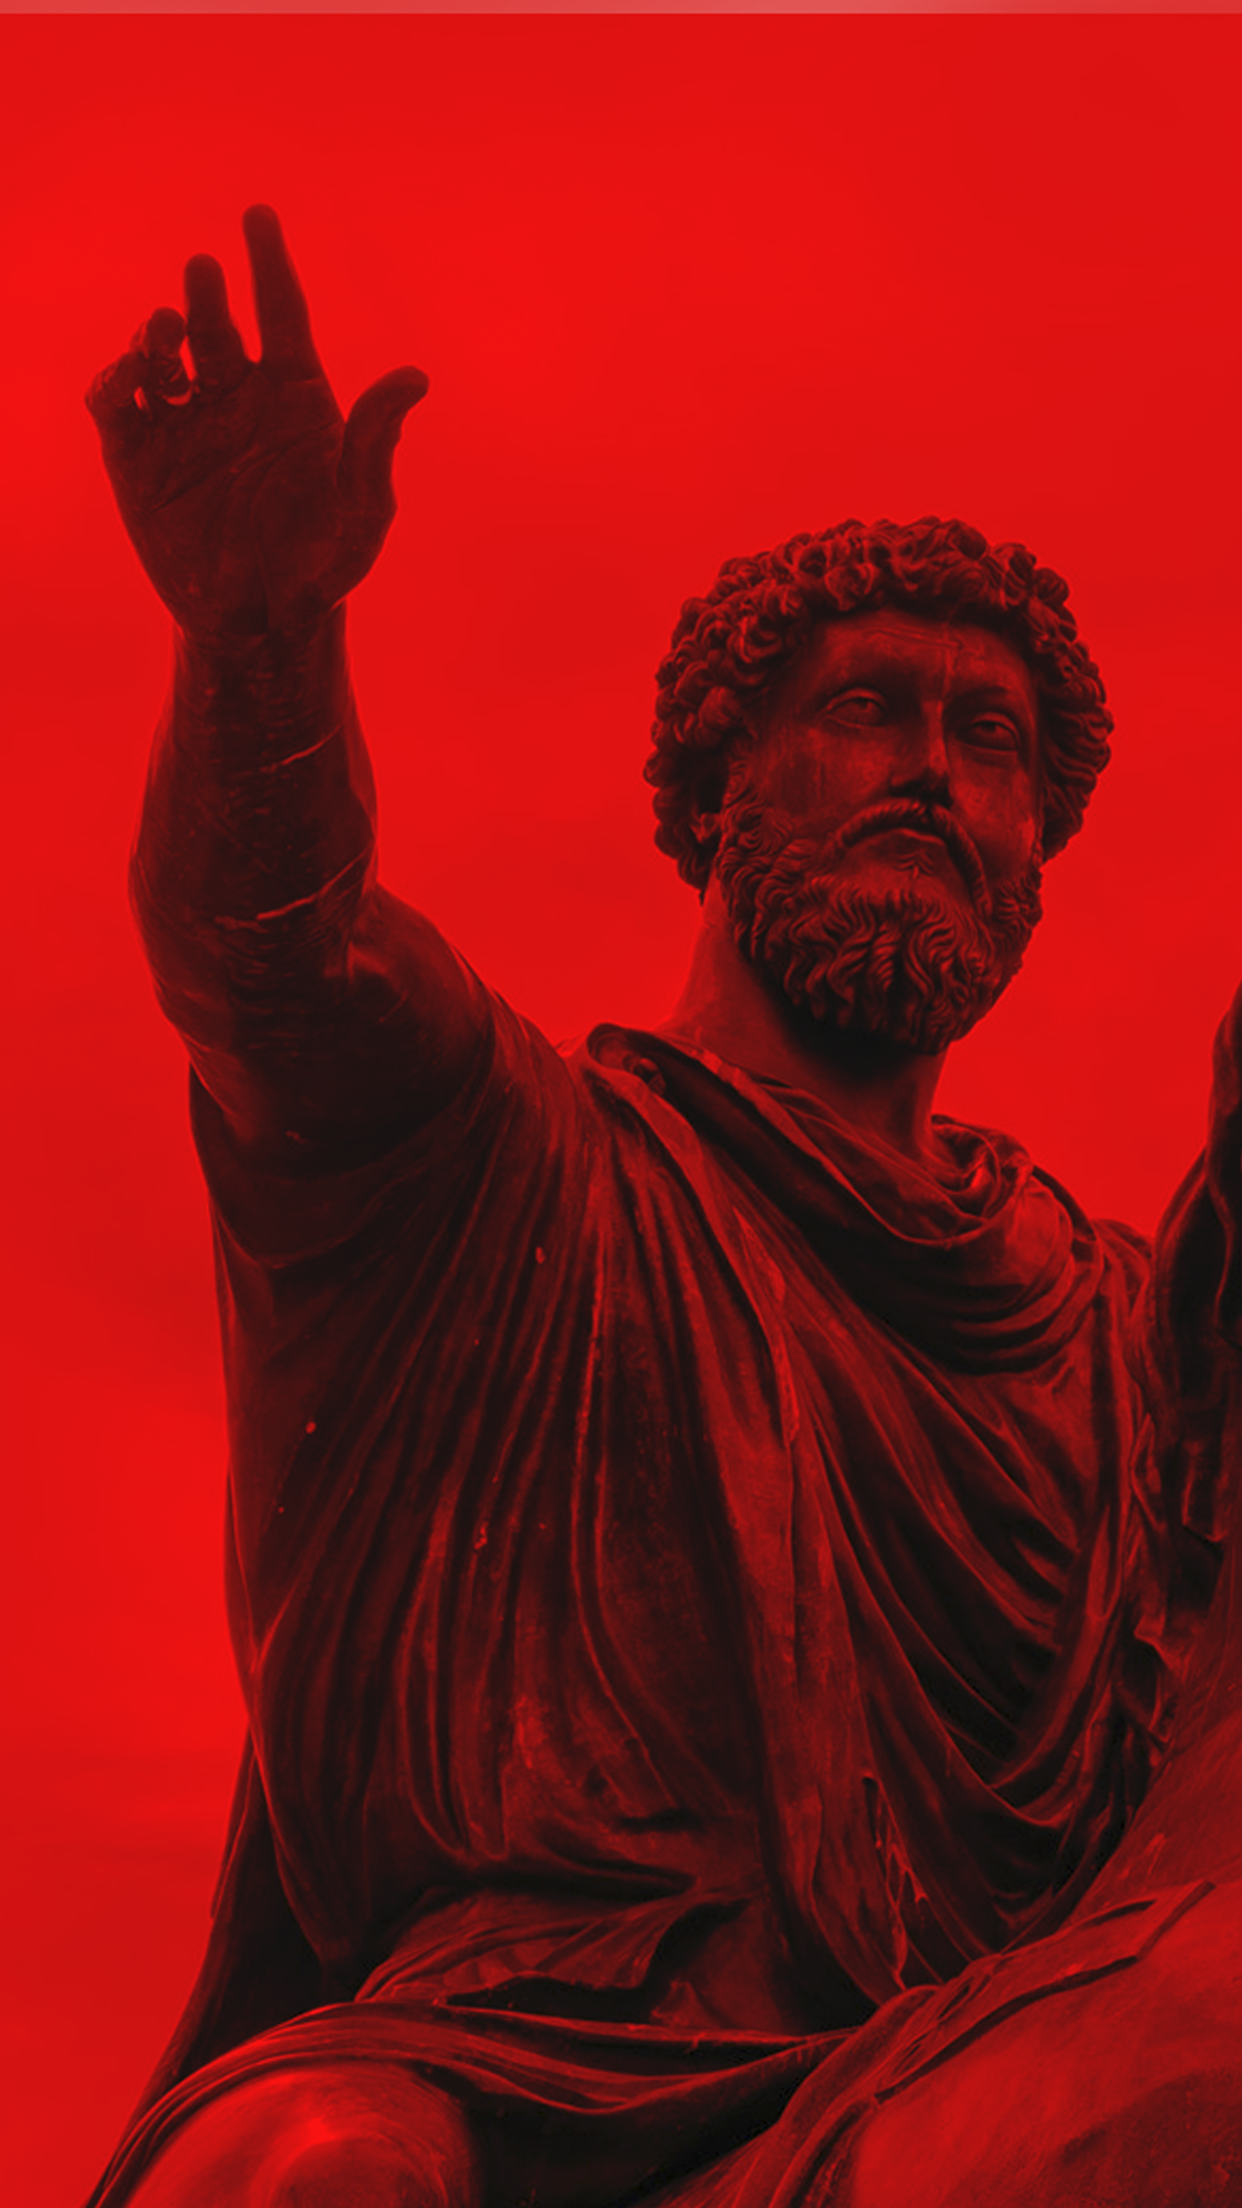
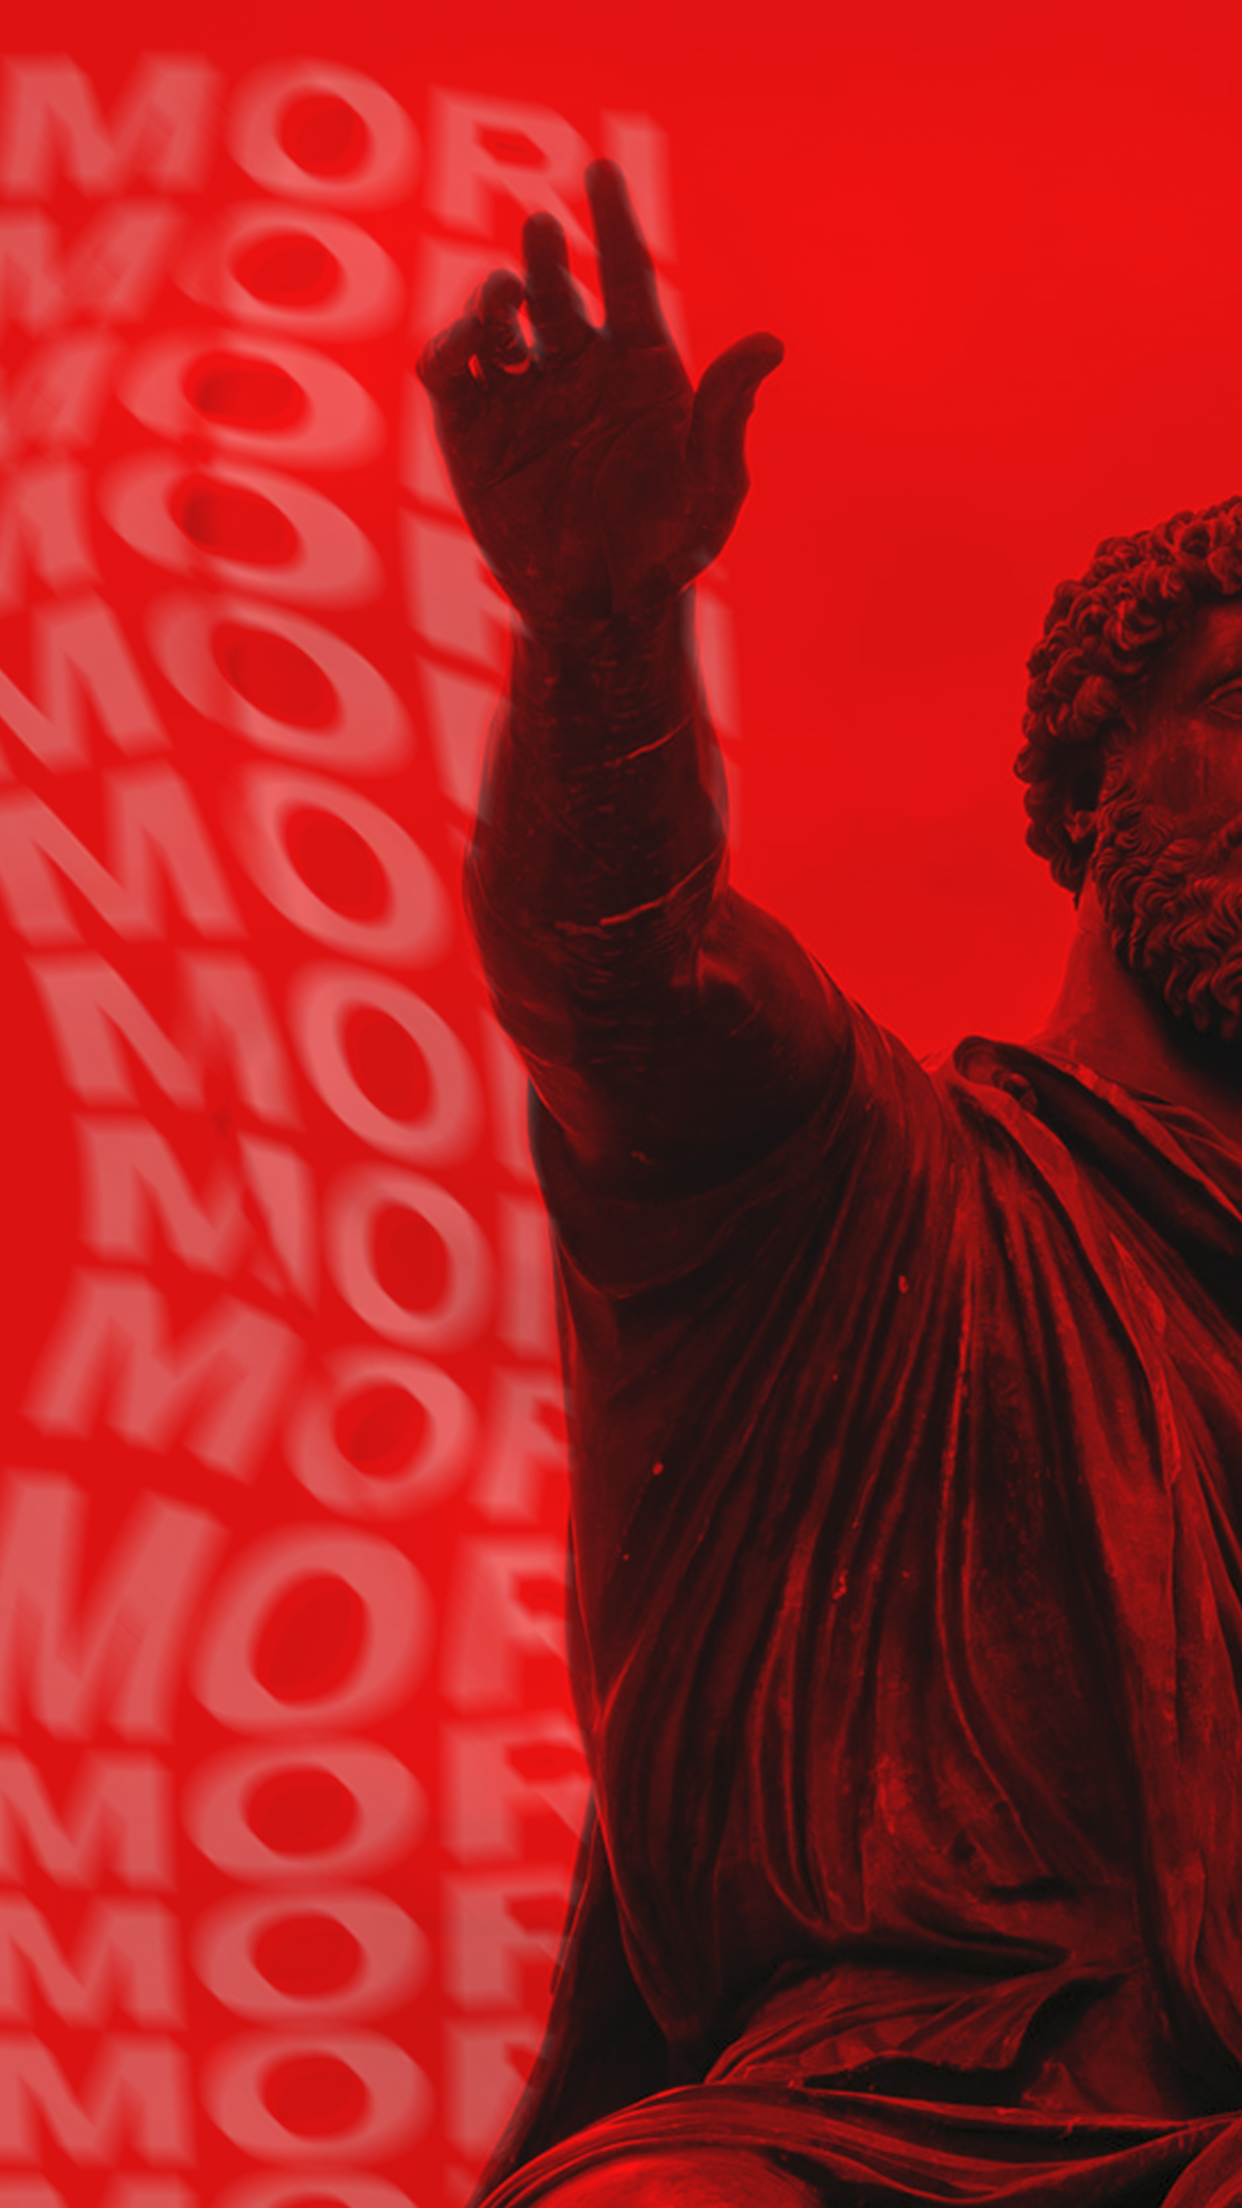
mudança hero img

diff --git a/index.html b/index.html
@@ -11,19 +11,24 @@
     <title>Ser Estóico</title>
 </head>
 <body>
-    <header class="cabecalho">
-        <h1 class="cabecalho__logo">Seja estóico.</h1>
+    <header class="cabecalho" >
+        <h1 class="cabecalho__logo" id="cabecalho">Seja estóico.</h1>
         <nav class="navegacao">
             <ul class="nav__links">
-                <li class="links">Início</li>
-                <li class="links">Estoicismo</li>
                 <li class="links">Origem</li>
                 <li class="links">Estóico</li>
+                <li class="links">Livros</li>
                 <li class="links">Galeria</li>
             </ul>
         </nav>
+        <div class="social">
+            <ul class="social-links">
+                <li class="social-link"><a href=""> <i class="fa-brands fa-instagram"></i></a> </li>
+                <li class="social-link"><a href=""><i class="fa-brands fa-twitter"></i> </a></li>
+                <li class="social-link"><a href=""> <i class="fa-brands fa-youtube"></i></a></li>
+            </ul>
+        </div>
     </header>
-
    <section class="chamada">
     <div class="frase">
         <h1 class="frase__titulo conteudo">Clique e veja a frase do dia!</h1>
@@ -100,7 +105,8 @@
                 <div class="card__filosofos">
                     <h1 class="filosofos__titulo-secao">Marco Aurélio</h1>
                     <img src="./img/aurelio.jpg" alt="imagem marco Aurélio" class="filosofos__img">
-                    <p class="filosofos__texto">Lorem ipsum dolor sit amet consectetur adipisicing elit. Ad, quibusdam?</p>
+                    <p class="filosofos__texto">Marco Aurélio é um dos filósofos estóicos mais famosos e uma das pessoas mais poderosas do mundo enquanto estava vivo. foi o imperador da Roma antiga.</p>
+                    <button class="btn-filosofos">Ler mais</button>
                 </div>
             </article>
             <article class="filosofos__secao">
@@ -108,14 +114,17 @@
                     <h1 class="filosofos__titulo-secao">Sêneca</h1>
                     <img src="./img/aurelio.jpg" alt="imagem marco Aurélio" class="filosofos__img">
                     
-                    <p class="filosofos__texto">Lorem ipsum dolor sit amet consectetur adipisicing elit. Ad, quibusdam?</p>
+                    <p class="filosofos__texto">Seu livro chamado Cartas de um estoico é um dos livros mais consagrado sobre estoicismo e é cheio de sabedoria e lições sobre moralidade.
+                </p>
+                <button class="btn-filosofos">Ler mais</button>
                 </div>
             </article>
             <article class="filosofos__secao">
                 <div class="card__filosofos">
                     <h1 class="filosofos__titulo-secao">Epicteto</h1>
                     <img src="./img/aurelio.jpg" alt="imagem marco Aurélio" class="filosofos__img">
-                    <p class="filosofos__texto">Lorem ipsum dolor sit amet consectetur adipisicing elit. Ad, quibusdam?</p>
+                    <p class="filosofos__texto">Seus ensinamentos foram documentados e publicados por um de seus alunos chamado Arrian em dois livros - Discourses e Enchiridion.</p>
+                    <button class="btn-filosofos">Ler mais</button>
                 </div>
                
             </article>

diff --git a/script.js b/script.js
@@ -94,7 +94,55 @@ const arrayOfQuotes=[
     },
     {
         autor:'Epicteto',
-        frase:'Não é a miséria que dói, mas a cobiça'
+        frase:'Temos dois ouvidos e uma boca para que possamos ouvir duas vezes mais do que falamos.'
+    },
+    {
+        autor:'Epicteto',
+        frase:'É da natureza do sábio resistir aos prazeres, mas do tolo ser escravo deles.'
+    },
+    {
+        autor:'Epicteto',
+        frase:'Primeiro aprenda o significado do que você diz e depois fale.'
+    },
+    {
+        autor:'Epicteto',
+        frase:'Se você quer algo bom, pegue você mesmo.'
+    },
+    {
+        autor:'Sêneca',
+        frase:'Apresse-se e viva.'
+    },
+    {
+        autor:'Sêneca',
+        frase:'Para muitos homens, a aquisição de riqueza não acaba com seus problemas, apenas os muda.'
+    },
+    {
+        autor:'Sêneca',
+        frase:'A vida é muito curta e ansiosa para quem esquece o passado, negligencia o presente e teme o futuro.'
+    },
+    {
+        autor:'Sêneca',
+        frase:'A dificuldade vem da nossa falta de confiança.'
+    },
+    {
+        autor:'Marco Aurélio',
+        frase:'Quanto mais valorizamos as coisas fora do nosso controle, menos controle temos.'
+    },
+    {
+        autor:'Marco Aurélio',
+        frase:'Escolha o tipo de pessoa que você quer ser e mantenha-se fiel a ele, seja sozinho ou acompanhado.'
+    },
+    {
+        autor:'Marco Aurélio',
+        frase:'A melhor resposta para a raiva é o silêncio.'
+    },
+    {
+        autor:'Zenão de citio',
+        frase:'O homem conquista o mundo conquistando a si mesmo.'
+    },
+    {
+        autor:'Zenão de citio',
+        frase:'Melhor tropeçar com os pés do que com a língua.'
     },
 ];
 
@@ -104,4 +152,3 @@ function generateQuote () {
     quoteOutput.innerHTML = `<span>${arrayOfQuotes[random].frase}</span>`;
     authorOutput.innerHTML = `<small>${arrayOfQuotes[random].autor}</small>`;
 }
-

diff --git a/css/base.css b/css/base.css
@@ -12,7 +12,7 @@
     scroll-behavior: smooth;
     --cor-primaria: #9d0208;
     --cor-secundaria: #0a0908;
-    --cor-terciaria: #370617a4;
+    --cor-terciaria: #3706173a;
     --cor-auxiliar: #9e2a2b;
     --font-primaria: 'Quicksand', sans-serif;
     --font-secundaria: 'Medula One';
@@ -50,7 +50,6 @@ body {
     margin-top: 5rem;
     margin-bottom: 3rem;
 }
-
 
 
 
@@ -158,15 +157,6 @@ body {
         transform: translateY(-1px);
       }
 
-    /* .container {
-        width: 940px;
-        margin: 0 auto;
-        display: flex;
-        flex-direction: column;
-        justify-content: center;
-        align-items: center;
-    } */
-
     .principal__titulo {
         font-size: 1.4rem;
         margin-bottom: 1rem;
@@ -190,8 +180,21 @@ body {
 
     .card__filosofos {
         width: 70%;
+        height: 70vh;
         margin: 0 auto;
         margin-bottom: 2rem;
+      }
+
+      .cabecalho {
+        display: flex;
+        justify-content: space-around;
+        align-items: center;
+        position: fixed;
+      }
+
+      .social-links {
+        display: flex;
+        gap: 1rem;
       }
 
 

diff --git a/css/filosofos.css b/css/filosofos.css
@@ -20,7 +20,7 @@
     display: flex;
     flex-direction: column;
     align-items: center;
-    background-color: rgba(255, 0, 0, 0.37);
+    background-color: rgba(250, 225, 255, 0.041);
     margin-bottom: 2rem;
     padding: 1rem 2rem;
     border-radius: 15px;
@@ -44,3 +44,30 @@
     width: 80%;
    border-radius: 15px;
 }
+
+.btn-filosofos {
+    cursor: pointer;
+    margin-top: 3rem;
+    padding: 10px 20px;
+    border: none;
+    font-size: 17px;
+    color: #fff;
+    border-radius: 7px;
+    letter-spacing: 4px;
+    font-weight: 700;
+    text-transform: uppercase;
+    transition: 0.5s;
+    transition-property: box-shadow;
+  }
+  
+  .btn-filosofos {
+    background: rgb(0,140,255);
+    box-shadow: 0 0 15px rgb(0,140,255);
+  }
+  
+  .btn-filosofos:hover {
+    box-shadow: 0 0 5px rgb(0,140,255),
+                0 0 25px rgb(0,140,255),
+                0 0 50px rgb(0,140,255),
+                0 0 100px rgb(0,140,255);
+  }

diff --git a/css/cabecalho.css b/css/cabecalho.css
@@ -1,6 +1,6 @@
 .cabecalho {
     position: absolute;
-    width: 100vw;
+    width: 100%;
     background-color: var(--cor-terciaria);
     font-family: var(--font-terciaria);
 }
@@ -11,7 +11,9 @@
     margin-top: .7rem;
     margin-bottom: .7rem;
 }
-
+.social-links {
+    display: none;
+}
 .navegacao {
 
     margin-bottom: .6rem;
@@ -19,6 +21,8 @@
 
 .nav__links {
     display: flex;
+    font-size: var(--tamanho-texto);
+    padding-top: .5rem;
     flex-direction: row;
     flex-wrap: wrap;
     gap: 1rem;

diff --git a/css/chamada.css b/css/chamada.css
@@ -11,7 +11,7 @@
 
 .frase {
     background-image: url('../img/celular.png');
-    background-position: -2% 5%;
+    background-position: 45% 5%;
     height: 100vh;
     display: flex;
     flex-direction: column;

diff --git a/README.md b/README.md
@@ -1,4 +1,5 @@
 <h1 align='center'>
-Seja Estóico</h1>
+daily-quotes
+</h1>
 
 <h3 align='center'>Projeto em desenvolvimento... </h3>
